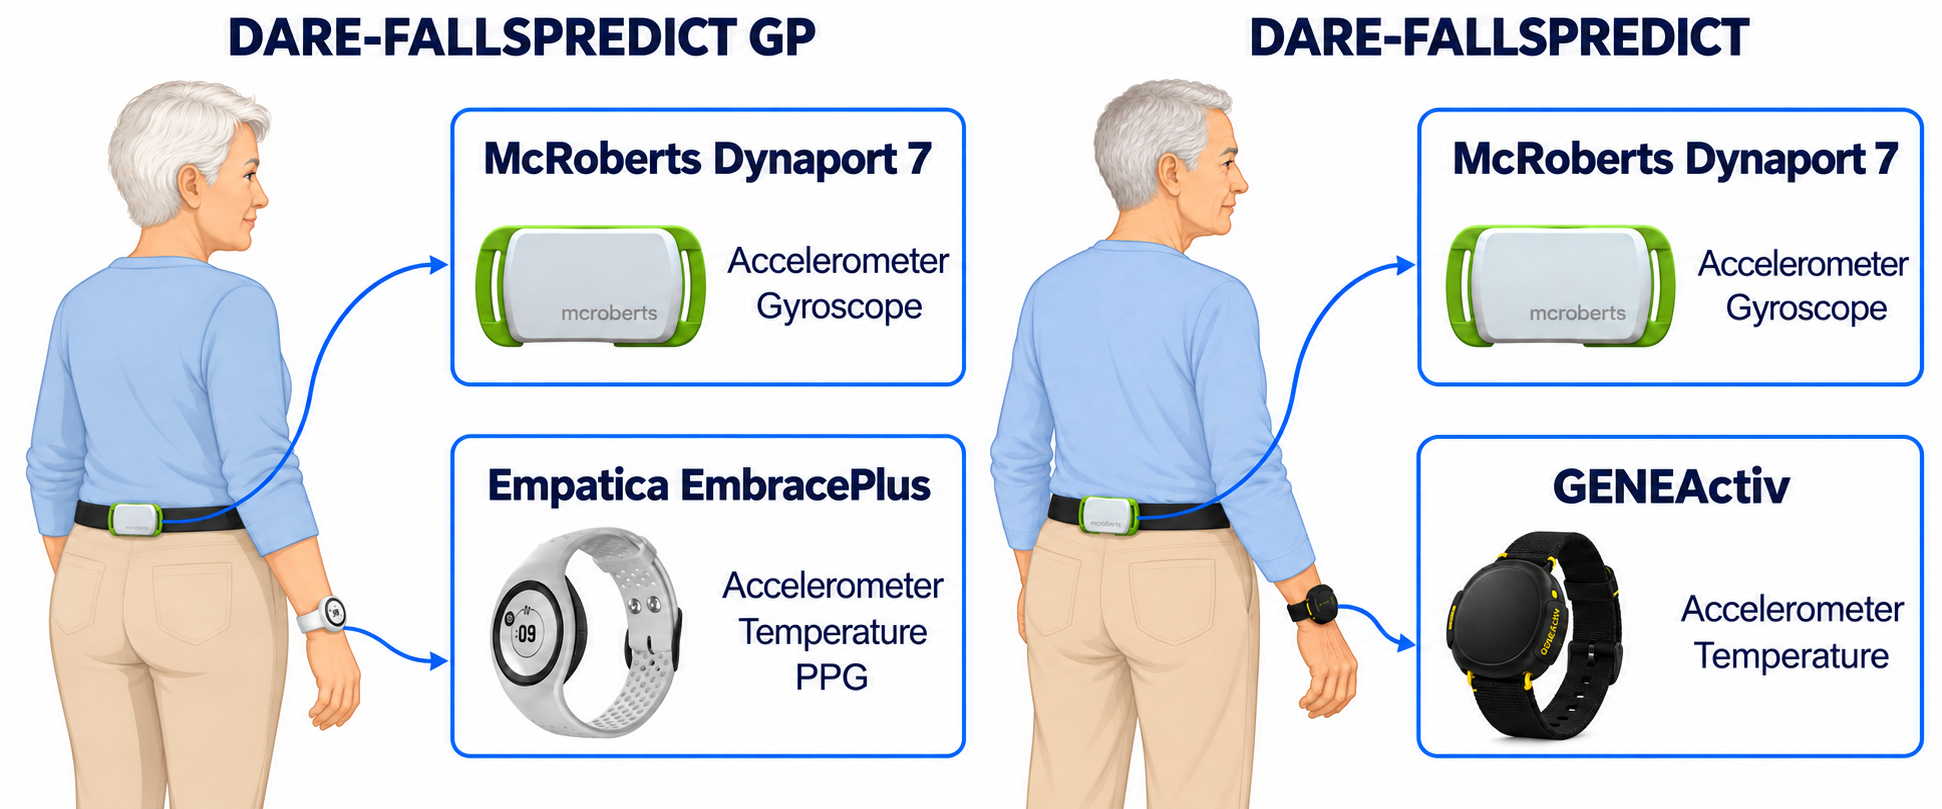
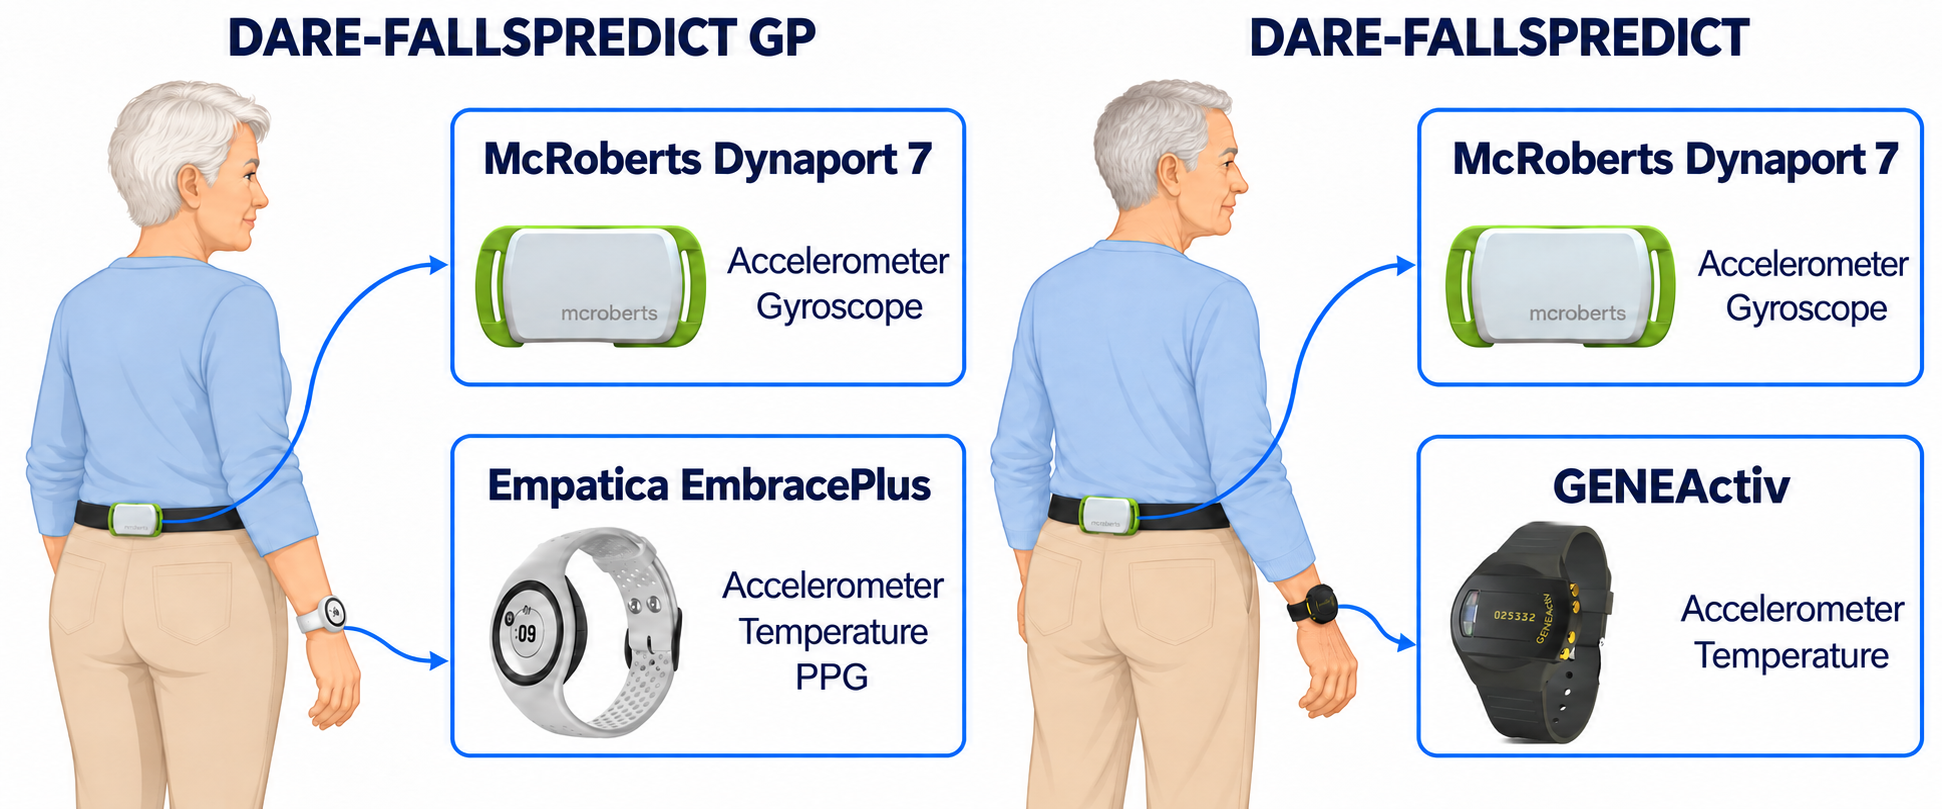
Use supplied GENEActiv photo in study setup figure

diff --git a/scripts/check_publication.py b/scripts/check_publication.py
@@ -20,8 +20,8 @@ MAX_BYTES = 1_000_000
 # Exact reviewed documentation assets; other binary files remain disallowed.
 REVIEWED_BINARY_ASSETS = {
     "docs/images/study-setup.png": (
-        1_529_412,
[1 lines of base64/hex data omitted]
+        1_643_945,
[1 lines of base64/hex data omitted]
     ),
 }
 ALLOWED_SUFFIXES = {".py", ".md", ".toml", ".txt", ".ipynb", ".yml", ".yaml"}
